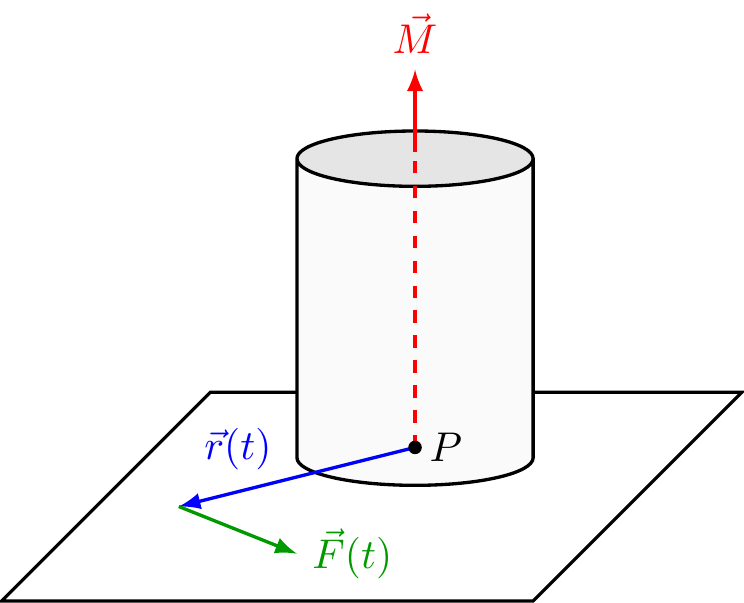
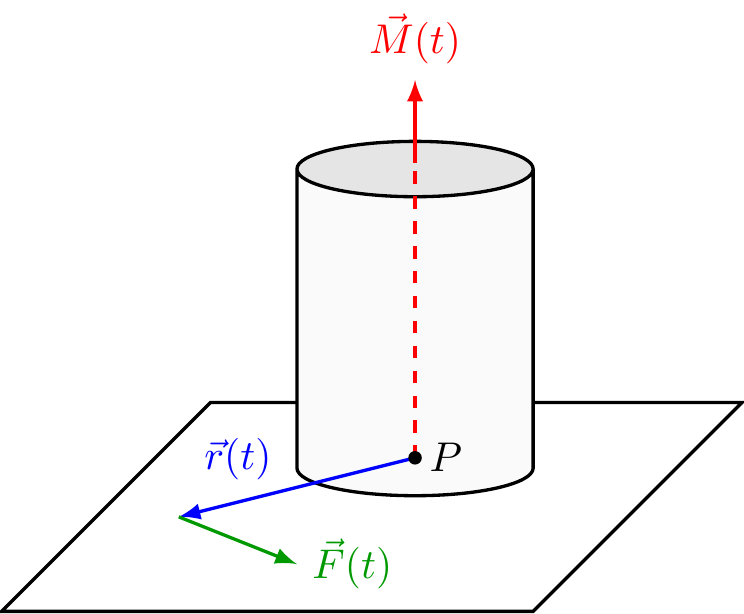
adding time dependence of M

diff --git a/mechanics/rotation-turning-momentum/rotation-turning-momentum.tex b/mechanics/rotation-turning-momentum/rotation-turning-momentum.tex
@@ -15,7 +15,7 @@
   \node (A) at (0,0) [thick, cylinder, aspect=2, shape border rotate=90, draw, minimum height=3cm, minimum width=2cm, cylinder body fill=gray!20, cylinder uses custom fill, cylinder end fill=gray] {};
   % turning momentum
   \draw[dashed,red,thick] (C) -- ++(0,3-1/2) coordinate (M);
-  \draw[->,red,thick] (M) -- +(0,0.7cm) node[above] {$\vec{M}$};
+  \draw[->,red,thick] (M) -- +(0,0.7cm) node[above] {$\vec{M}(t)$};
   \draw[->,blue,thick] (C) -- node[above,xshift=-0.5cm,yshift=-0.2em] {$\vec{r}(t)$} (R);
   \draw[->,green,thick] (R) -- +(1cm,-0.4cm) node[right] {$\vec{F}(t)$};
   \draw[fill] (C) circle (0.05cm) node[right] {$P$};

diff --git a/mechanics/rotation-turning-momentum/rotation-turning-momentum_inverted.tex b/mechanics/rotation-turning-momentum/rotation-turning-momentum_inverted.tex
@@ -24,7 +24,7 @@
   \node (A) at (0,0) [thick, cylinder, aspect=2, shape border rotate=90, draw, minimum height=3cm, minimum width=2cm, cylinder body fill=gray!60, cylinder uses custom fill, cylinder end fill=gray] {};
   % turning momentum
   \draw[dashed,red,thick] (C) -- ++(0,3-1/2) coordinate (M);
-  \draw[->,red,thick] (M) -- +(0,0.7cm) node[above] {$\vec{M}$};
+  \draw[->,red,thick] (M) -- +(0,0.7cm) node[above] {$\vec{M}(t)$};
   \draw[->,blue,thick] (C) -- node[above,xshift=-0.5cm,yshift=-0.2em] {$\vec{r}(t)$} (R);
   \draw[->,green,thick] (R) -- +(1cm,-0.4cm) node[right] {$\vec{F}(t)$};
   \draw[fill] (C) circle (0.05cm) node[right] {$P$};

diff --git a/mechanics.md b/mechanics.md
@@ -1058,7 +1058,7 @@
   \node (A) at (0,0) [thick, cylinder, aspect=2, shape border rotate=90, draw, minimum height=3cm, minimum width=2cm, cylinder body fill=gray!20, cylinder uses custom fill, cylinder end fill=gray] {};
   % turning momentum
   \draw[dashed,red,thick] (C) -- ++(0,3-1/2) coordinate (M);
-  \draw[->,red,thick] (M) -- +(0,0.7cm) node[above] {$\vec{M}$};
+  \draw[->,red,thick] (M) -- +(0,0.7cm) node[above] {$\vec{M}(t)$};
   \draw[->,blue,thick] (C) -- node[above,xshift=-0.5cm,yshift=-0.2em] {$\vec{r}(t)$} (R);
   \draw[->,green,thick] (R) -- +(1cm,-0.4cm) node[right] {$\vec{F}(t)$};
   \draw[fill] (C) circle (0.05cm) node[right] {$P$};
@@ -3013,7 +3013,7 @@
   \node (A) at (0,0) [thick, cylinder, aspect=2, shape border rotate=90, draw, minimum height=3cm, minimum width=2cm, cylinder body fill=gray!60, cylinder uses custom fill, cylinder end fill=gray] {};
   % turning momentum
   \draw[dashed,red,thick] (C) -- ++(0,3-1/2) coordinate (M);
-  \draw[->,red,thick] (M) -- +(0,0.7cm) node[above] {$\vec{M}$};
+  \draw[->,red,thick] (M) -- +(0,0.7cm) node[above] {$\vec{M}(t)$};
   \draw[->,blue,thick] (C) -- node[above,xshift=-0.5cm,yshift=-0.2em] {$\vec{r}(t)$} (R);
   \draw[->,green,thick] (R) -- +(1cm,-0.4cm) node[right] {$\vec{F}(t)$};
   \draw[fill] (C) circle (0.05cm) node[right] {$P$};
